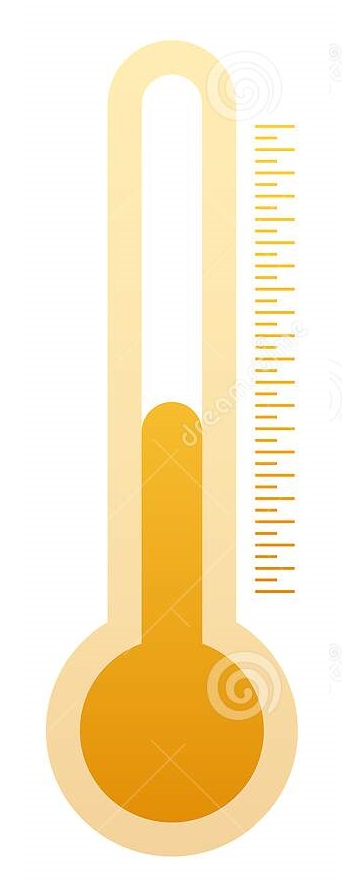
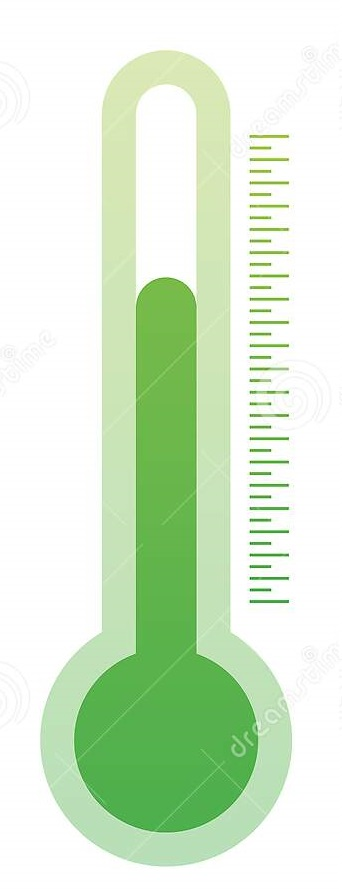
123

diff --git a/D13/basic02/temperature.js b/D13/basic02/temperature.js
@@ -2,25 +2,25 @@ let temp=Math.floor(Math.random()*40-5);
 if (temp >30){
     document.getElementById("text1").innerHTML=`Current Temperature is = ${temp}`;
     document.getElementById("text2").innerHTML=`The weather is really hot`;
-    
+    weatherimg(1);
 } else if ( temp > 20) {
     document.getElementById("text1").innerHTML=`Current Temperature is = ${temp}`;
     document.getElementById("text2").innerHTML=`The weather is warm`;
-
+    weatherimg(2);
 }   else if ( temp > 10) {
     document.getElementById("text1").innerHTML=`Current Temperature is = ${temp}`;
     document.getElementById("text2").innerHTML=`The weather is Moderate`;
-
+    weatherimg(3);
 } else {
     document.getElementById("text1").innerHTML=`Current Temperature is = ${temp}`;
     document.getElementById("text2").innerHTML=`The weather is really cold`;
-
+    weatherimg(4);
 }
-function weatherimg(<img>) {
+function weatherimg(img) {
     var x = document.createElement("IMG");
-    x.setAttribute("src", "Veryhot.jpg");
+    x.setAttribute("src", `${img}.jpg`);
     x.setAttribute("width", "342");
     x.setAttribute("height", "870");
     document.body.appendChild(x);
   }
-  weatherimg();
+ 
